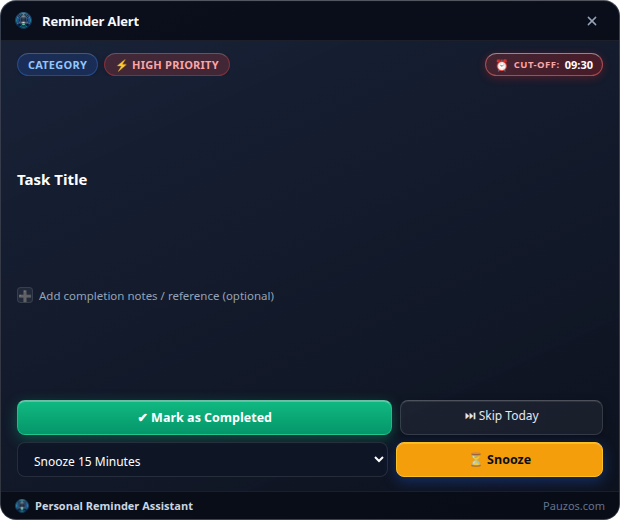
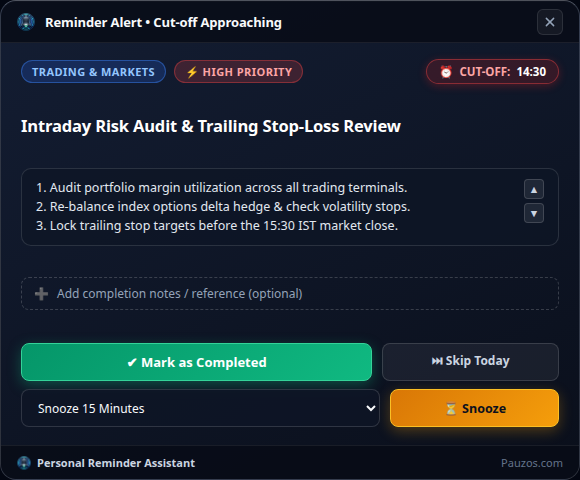
fix(media): replace placeholder alert screenshot with populated interactive smart alert card

diff --git a/index.html b/index.html
@@ -721,7 +721,7 @@
         <!-- Right: Real Screenshot of Reminder Alert Pop-up -->
         <div class="split-visual-col">
           <div class="split-app-frame compact" style="max-width: 520px;">
-            <img src="assets/screenshots/reminder_popup_timesheet.png?v=20261027c" alt="Interactive Reminder Alert Pop-up">
+            <img src="assets/screenshots/reminder_popup_timesheet.png?v=20261027d" alt="Interactive Reminder Alert Pop-up">
           </div>
         </div>
 
